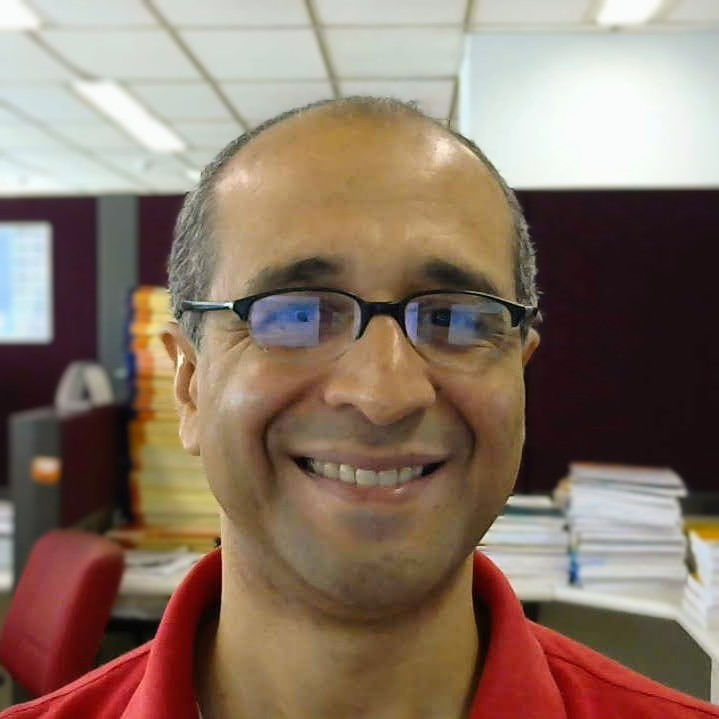
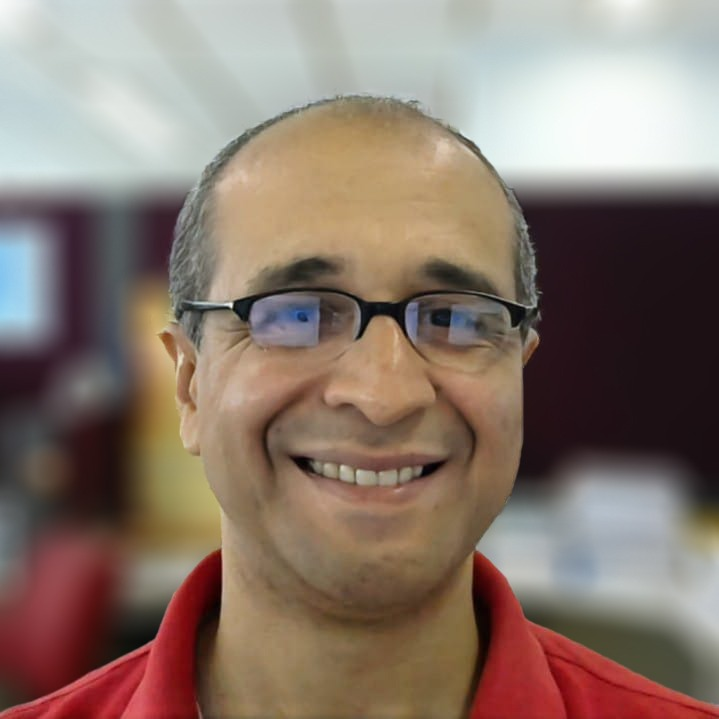
adicionado palestrante Jullyano; testando foto preview whatsapp

diff --git a/index.html b/index.html
@@ -2,6 +2,12 @@
 <html lang="pt-BR">
 
 <head>
+  <meta property="og:title" content="Qiskit Fall Fest Brasil 2024">
+  <meta property="og:description" content="Venha explorar o futuro da computação quântica!">
+  <meta property="og:image" content="https://qiskit-fall-fest-2024-brasil.github.io/img/whatsapp/whatsapp_m.png">
+  <meta property="og:url" content="https://qiskit-fall-fest-2024-brasil.github.io/">
+  <meta property="og:type" content="website">
+
   <meta charset="UTF-8">
   <meta name="viewport" content="width=device-width, initial-scale=1.0">
   <title>Qiskit Fall Fest 2024 - Brasil</title>
@@ -122,6 +128,25 @@
           Em sua trajetória de pesquisa, aprofundou-se em aprendizado de máquina quântica e processamento de sinais 
           para o diagnóstico de doenças neurodegenerativas através da fala. Atualmente, seu foco em aprendizado de 
           máquina quântica está direcionado para a física de altas energias.</p>
+      </div>
+    </div>
+
+    <div class="palestrante-card">
+      <img class="palestrante-photo" src="Palestrantes/Jullyano/foto.jpg" alt="Carlos Picture">
+      <div class="info-palestrante">
+        <!-- <p><strong>Tema:</strong> "Introdução à Computação Quântica"</p> -->
+        <!-- <p><strong>Horário:</strong> 10h00 - 11h00</p> -->
+        <h3>Jullyano Lino</h3>
+        <p class="bio">
+          Cientista da Computação (UFPI) com pós graduação em Computação Quântica, 
+          publicou sobre sensoriamento quântico (RADAR e LIDAR)
+          aplicado à defesa nacional (ITA, 2023). Palestra sobre
+          segurança na era quântica (MindTheSec, 2023) e cibersegurança ofensiva,
+          dedicando-se a criptografia e análise de vulnerabilidades quânticas.
+          Atua como analista de segurança da informação, mantendo certificações profissionais CISSP e C|TIA.
+          Participa de hackatons de computação quântica
+          (IBM, QWorld) e desafios CTF, enquanto busca a graduação em Matemática.
+        </p>
       </div>
     </div>
 

diff --git a/index_en.html b/index_en.html
@@ -125,6 +125,24 @@
   </div>
 
   <div class="palestrante-card">
+    <img class="palestrante-photo" src="Palestrantes/Jullyano/foto.jpg" alt="Carlos Picture">
+    <div class="info-palestrante">
+      <!-- <p><strong>Tema:</strong> "Introdução à Computação Quântica"</p> -->
+      <!-- <p><strong>Horário:</strong> 10h00 - 11h00</p> -->
+      <h3>Jullyano Lino</h3>
+      <p class="bio">Computer Scientist (UFPI) with a postgraduate degree in 
+        Quantum Computing, published on quantum sensing (RADAR and LIDAR) applied 
+        to national defense (ITA, 2023). Delivered talks on security in the quantum 
+        era (MindTheSec, 2023) and offensive cybersecurity, focusing on cryptography 
+        and quantum vulnerability analysis. Works as an information security analyst, 
+        holding CISSP and C|TIA professional certifications. Participates in quantum 
+        computing hackathons (IBM, QWorld) and CTF challenges while pursuing a degree 
+        in Mathematics.
+      </p>
+    </div>
+  </div>
+
+  <div class="palestrante-card">
     <img class="palestrante-photo" src="Palestrantes/Leticia/foto.jpg" alt="Leticia Picture">
     <div class="info-palestrante">
       <!-- <p><strong>Tema:</strong> "Introdução à Computação Quântica"</p> -->
